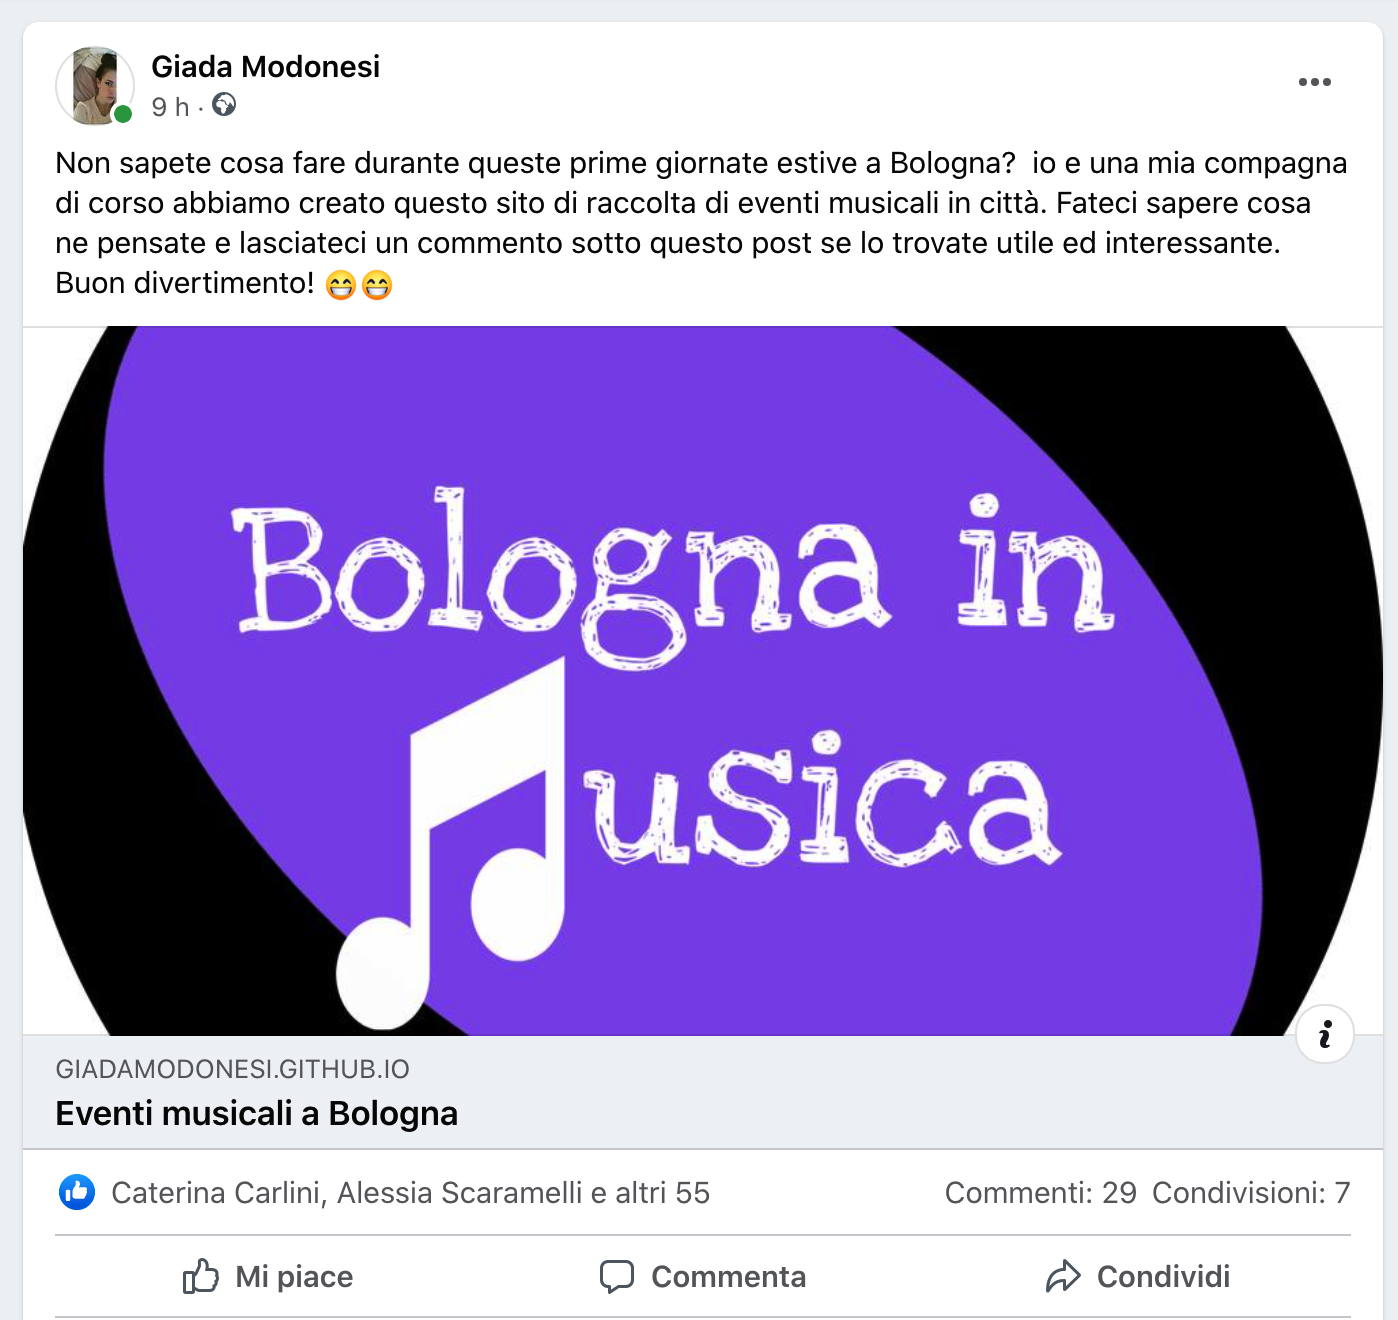
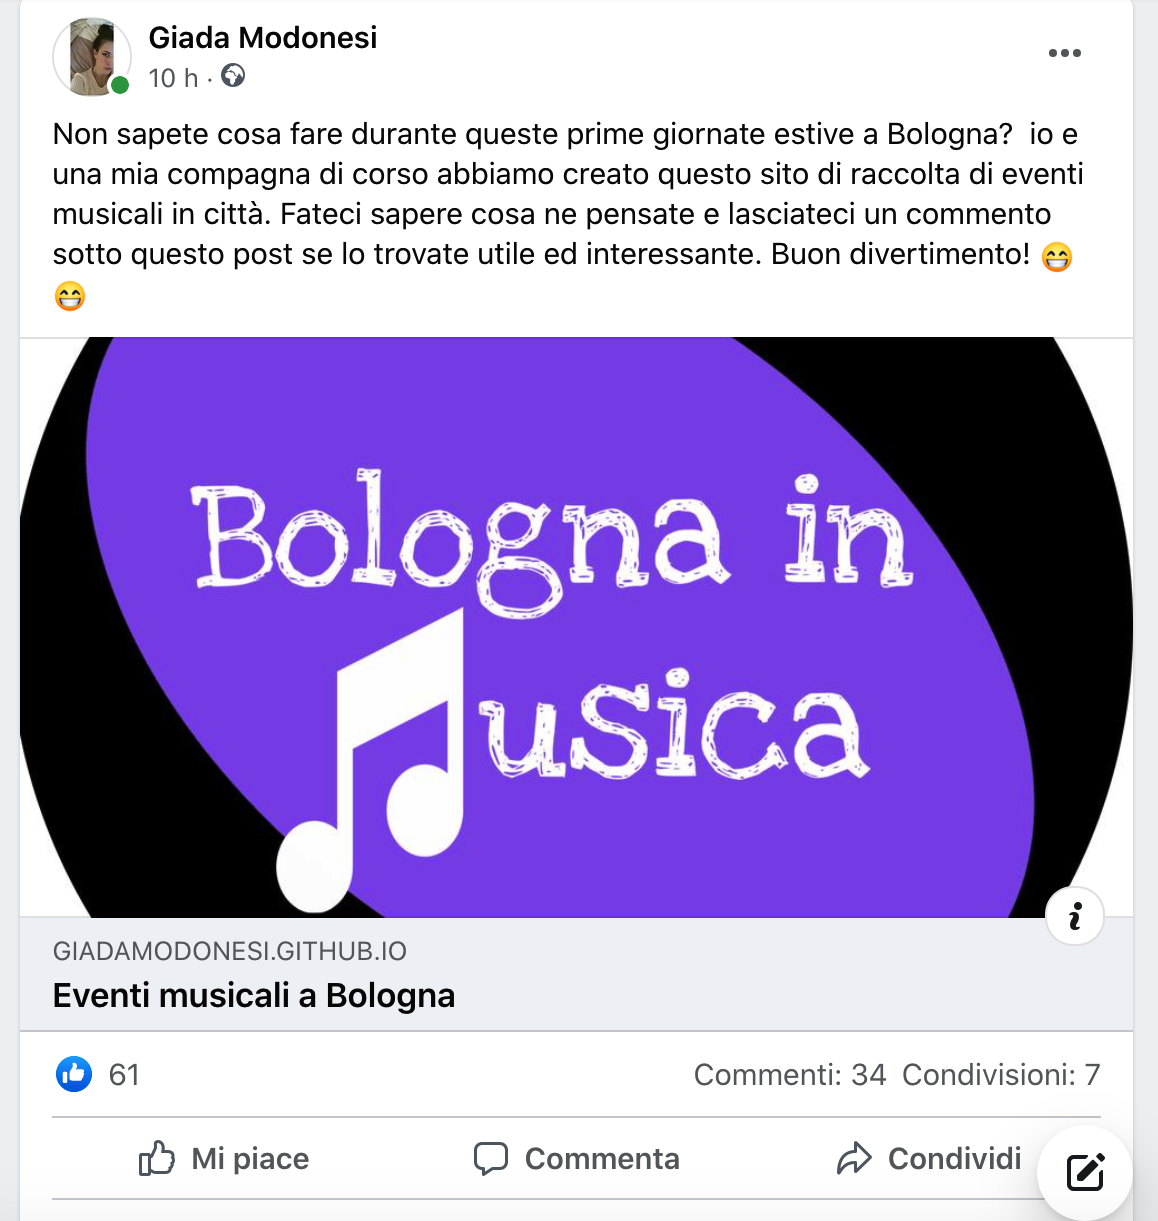
ultimi caricati

diff --git a/chisiamo.html b/chisiamo.html
@@ -239,7 +239,7 @@ Intendiamo promuovere il sito:</br>
    perchè ancora oggi è il social più usato. Visti gli esiti </br>
    ottenuti dalla pubblicazione del post possiamo dire di aver</br>
    raggiunto un buon risultato per quanto riguarda la diffusione</br>
-   e la promozione del nostro sito. Oltre a più di 50 like il </br>
+   e la promozione del nostro sito. Oltre a più di 60 like il </br>
    dato più significativo è l'interazione che</br>
    gli utenti hanno dimostrato nella zona commenti: abbiamo avuto un</br>
    feedback molto positivo. In particolare le opinioni più </br>
@@ -258,6 +258,7 @@ Intendiamo promuovere il sito:</br>
 <img src="img/val5.jpg" alt="valutazione dei risultati" class="doc"/>
 <img src="img/val6.jpg" alt="valutazione dei risultati" class="doc"/>
 <img src="img/val7.jpg" alt="valutazione dei risultati" class="doc"/>
+<img src="img/val8.jpg" alt="valutazione dei risultati" class="doc"/>
 
 
 </div>
